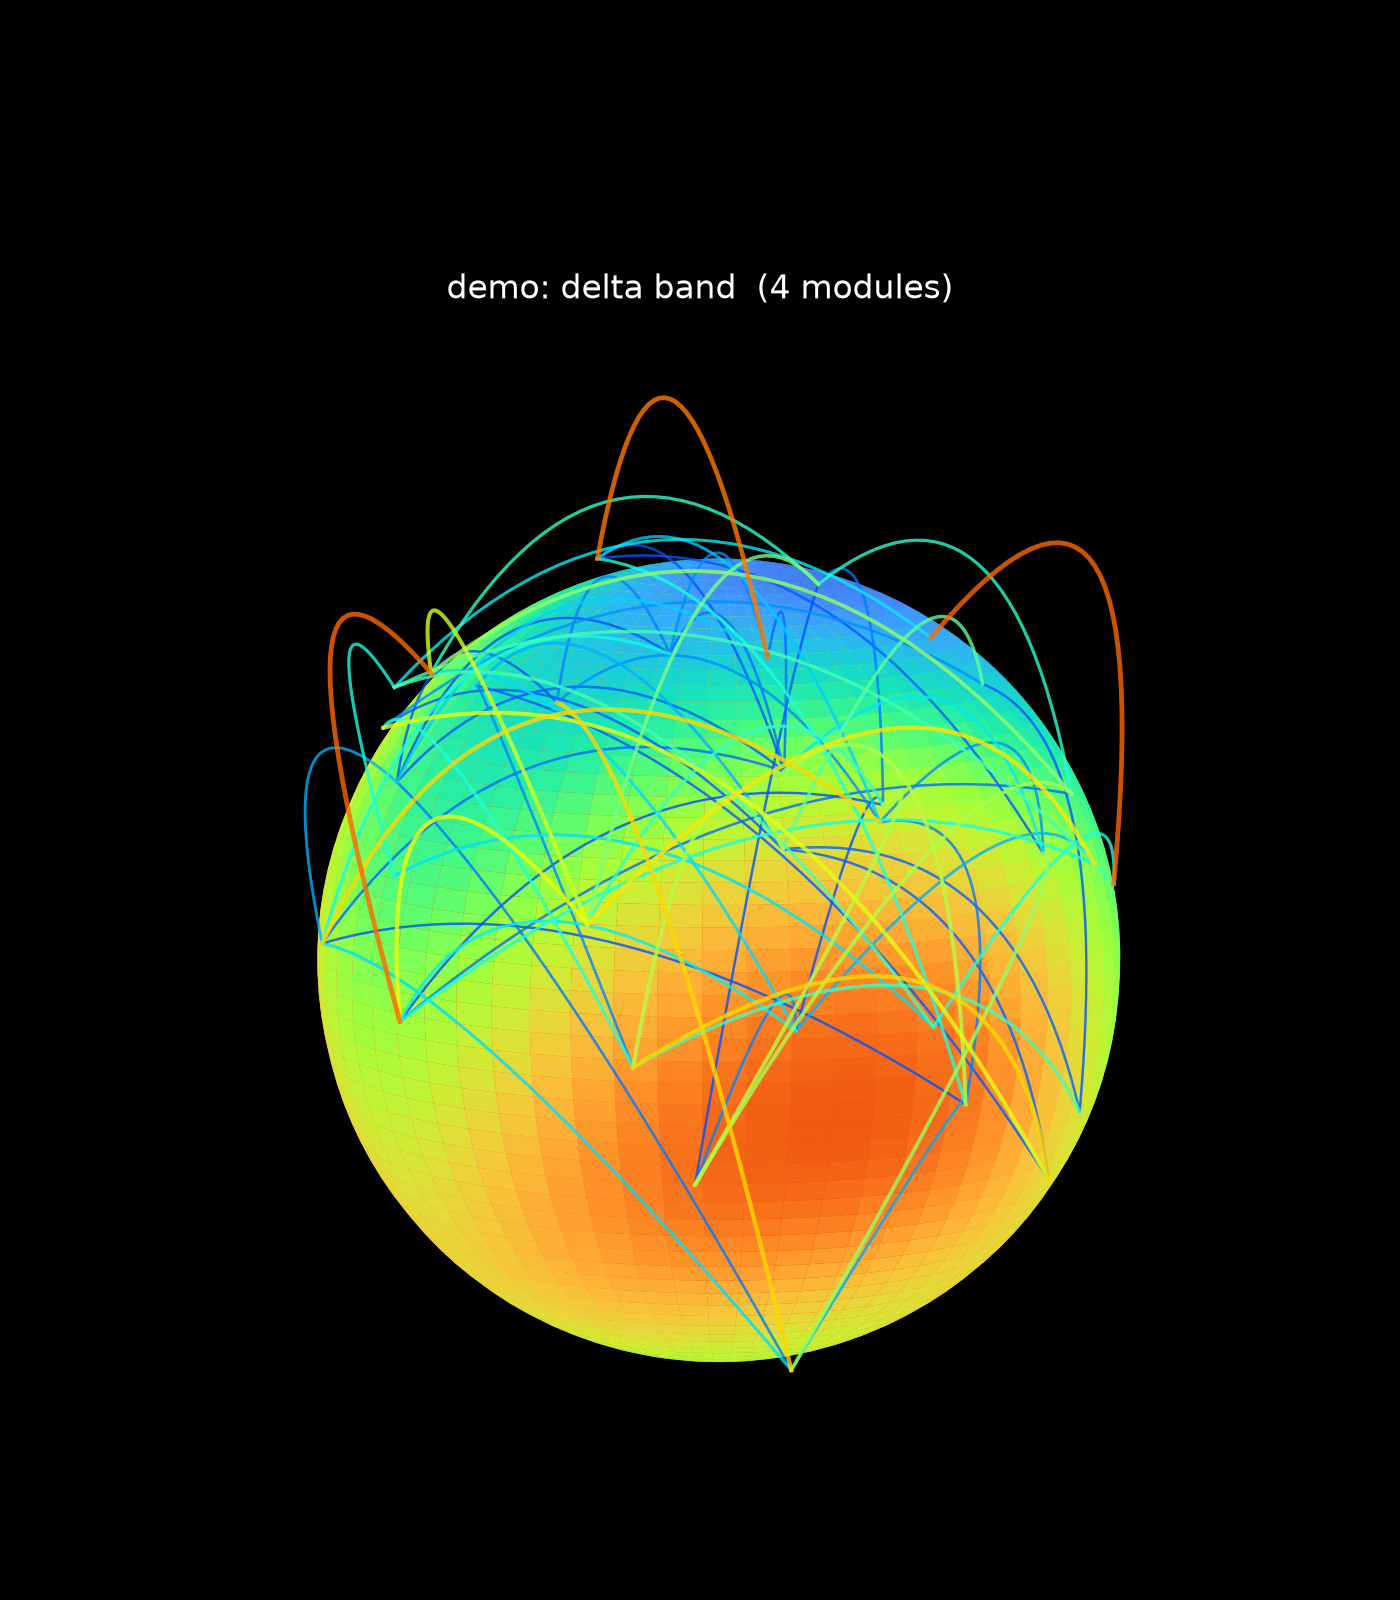
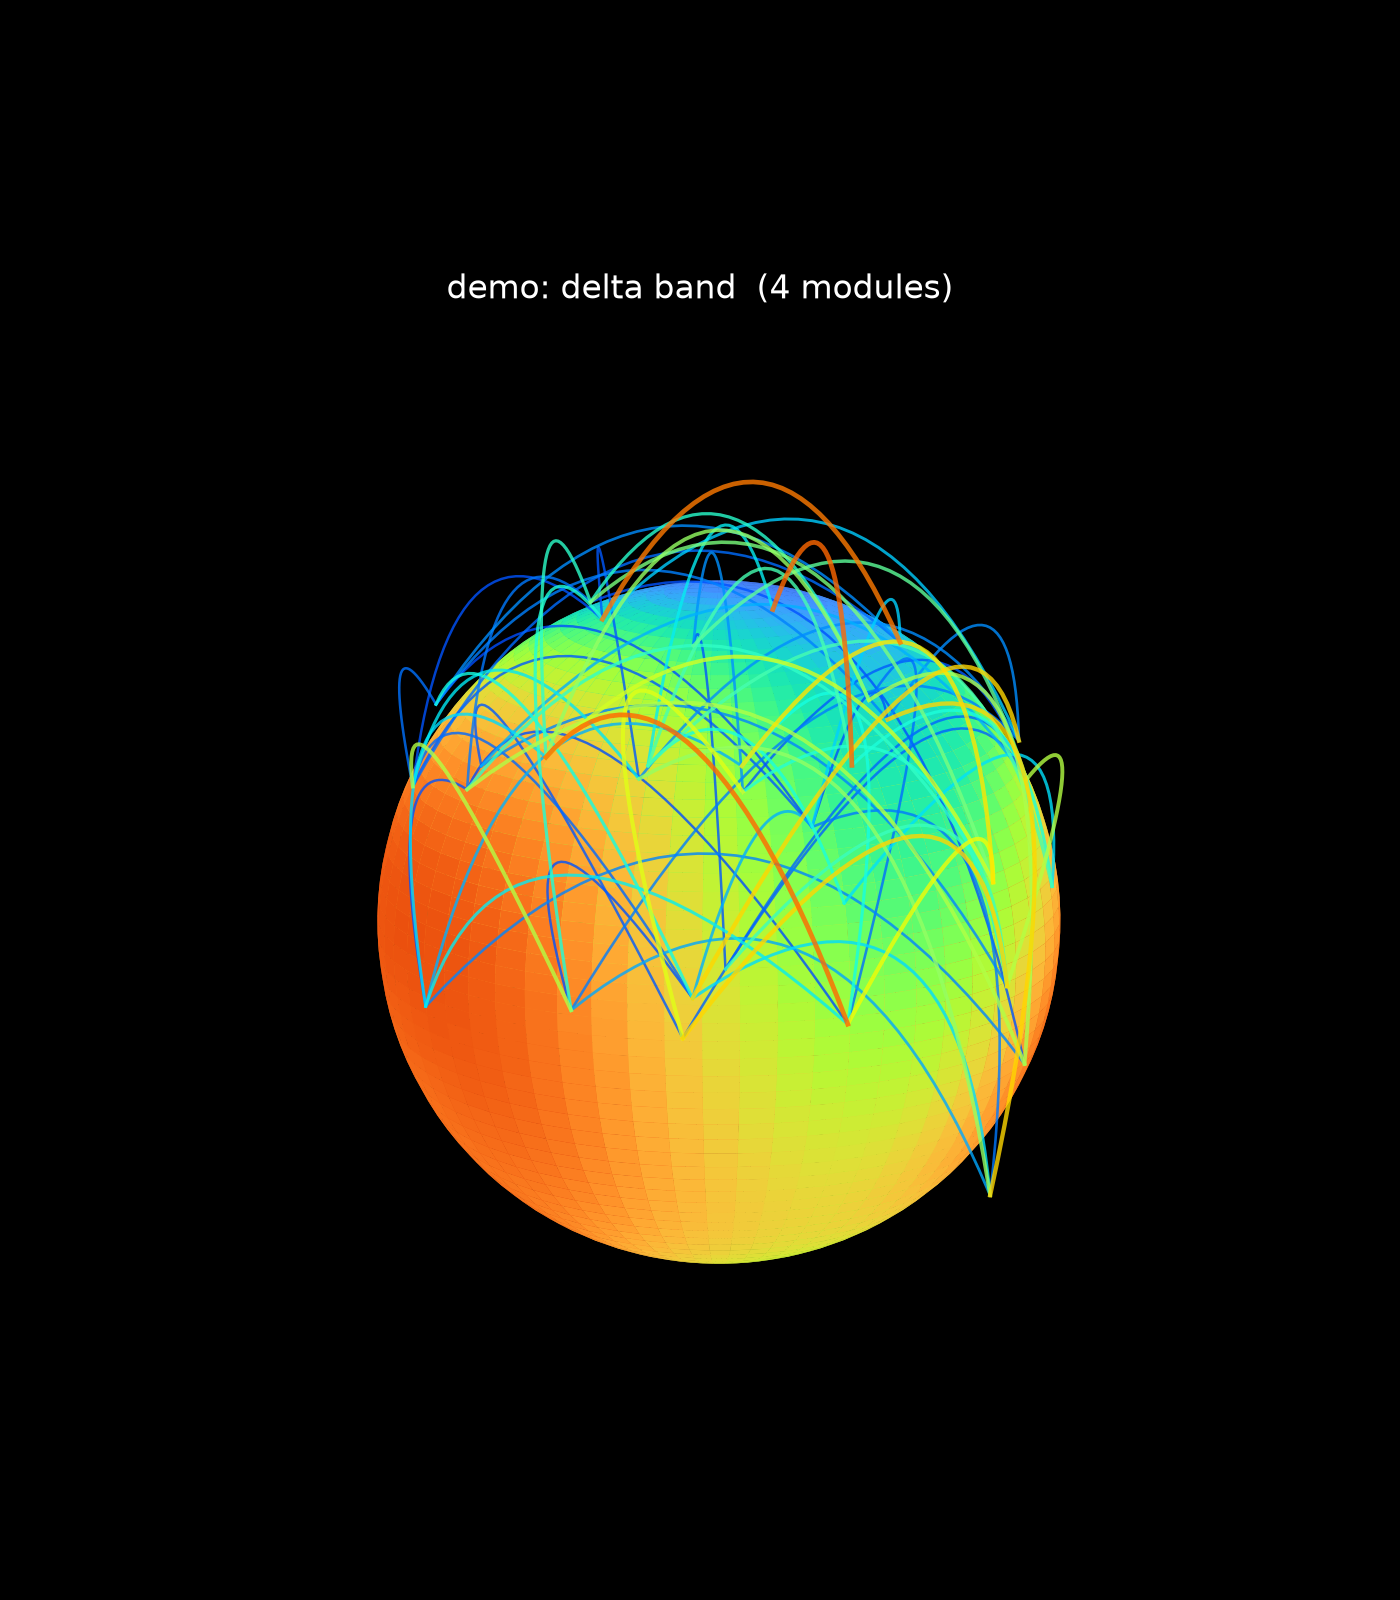
Improve 3D mohawk geometry and default viewing angle
Multi-angle inspection showed long-range arcs cutting through the head as
straight chords because arc height depended only on edge weight. Arc lift now
scales with endpoint separation (and up-bias raised) so long connections arch
clear over the dome. Default view set to a 3/4 anterior-left angle (elev 14,
azim -40) that shows the crest with depth; vertical framing widened so the
taller arcs are not clipped.

Regenerates the synthetic example mohawk figures. Tests unchanged (37 passing).

Claude-Session: https://claude.ai/code/session_018C6t1GkDYku4dexW5MCMrv

diff --git a/mohawk/plotting.py b/mohawk/plotting.py
@@ -128,13 +128,15 @@ def _scalp_field(P, center, elec_pos, values, sigma=0.25):
     return field / (wsum + 1e-12)
 
 
-def _arc3d(p0, p1, center, height, up_bias=1.8, n=32):
+def _arc3d(p0, p1, center, height, up_bias=2.2, n=32):
     """3D quadratic-Bezier arc rising above the scalp into an upward crest.
 
     The control point is lifted from the edge midpoint along a direction that
     blends the outward scalp normal with a strong ``+z`` (up) bias, so the arcs
     sprout upward like the "mohawk" of Chennu et al. (2017) rather than
-    radiating in all directions.
+    radiating in all directions.  ``height`` should grow with the endpoint
+    separation (done by the caller) so that long-range connections arch clear
+    over the head instead of cutting through it.
     """
     mid = (p0 + p1) / 2
     out = mid - center
@@ -155,8 +157,8 @@ def plot_mohawk_3d(
     outpath: str | None = None,
     basename: str = "",
     seed: int | None = None,
-    elev: float = 8.0,
-    azim: float = 45.0,
+    elev: float = 14.0,
+    azim: float = -40.0,
 ):
     """3D "mohawk" connectivity topograph (faithful to plothead.m / plotgraph3d.m).
 
@@ -217,19 +219,21 @@ def plot_mohawk_3d(
         if minfo[i] != minfo[j]:
             continue  # intra-module edges only (plotinter='off')
         color = strength_cmap(w) if arcs == "strength" else mod_color[minfo[i]]
-        height = (0.25 + 1.0 * w) * radius  # lhfactor-like lift
+        # lift grows with endpoint separation so long-range arcs clear the dome
+        sep = np.linalg.norm(pos3d[i] - pos3d[j])
+        height = (0.15 + 0.4 * w) * radius + 0.45 * sep
         arc = _arc3d(pos3d[i], pos3d[j], center, height)
         ax.plot(arc[:, 0], arc[:, 1], arc[:, 2], color=color,
                 lw=0.6 + 1.4 * w, alpha=0.8, zorder=3)
 
     # Frame the head plus the upward crest: shift the box up and keep equal
     # aspect so the sphere is undistorted.
-    r = radius * 1.5
+    r = radius * 1.7
     ax.set_xlim(center[0] - r, center[0] + r)
     ax.set_ylim(center[1] - r, center[1] + r)
-    ax.set_zlim(center[2] - r * 0.7, center[2] + r * 1.3)
+    ax.set_zlim(center[2] - r * 0.75, center[2] + r * 1.25)
     try:
-        ax.set_box_aspect((1, 1, 1), zoom=1.45)
+        ax.set_box_aspect((1, 1, 1), zoom=1.4)
     except TypeError:
         ax.set_box_aspect((1, 1, 1))
     except Exception:
